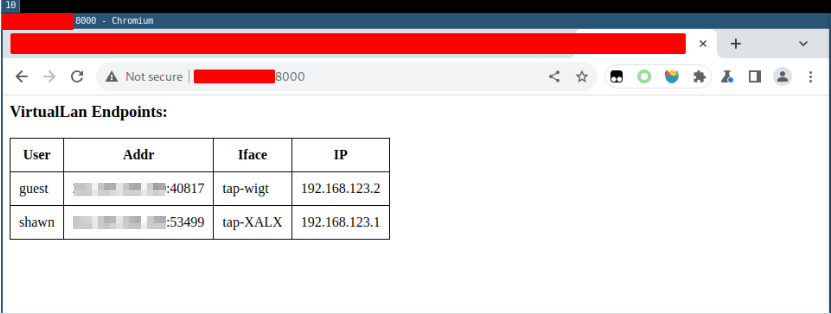
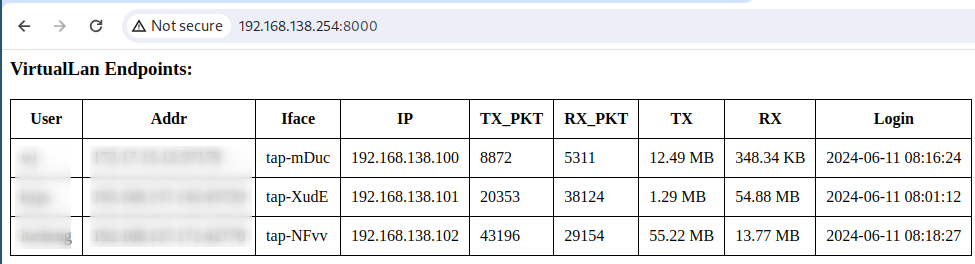
Update README

diff --git a/README.md b/README.md
@@ -39,7 +39,7 @@ go generate will generate an random aes key
 
 **Server**
 ```
-➜  virtuallan git:(master) ✗ ./virtuallan server -h
+➜  ~ virtuallan server -h
 NAME:
    virtuallan server - run virtuallan server
 
@@ -55,9 +55,22 @@ config dir files:
 * config.yaml: server config file
 * users: user database csv format \<username>,\<user passwd base64 encode>
 
+config.yaml
+
+```
+port: 6123                                     # UDP server port
+ip: 192.168.123.254/24                         # Server local ip address
+dhcp-range: 192.168.123.100-192.168.123.200    # DHCP ip pool
+bridge: br0                                    # Server local bridge name
+log-level: info                                # Log level
+web:
+  enable: true                                 # Monitor server enable, default false
+  port: 8000                                   # Web server port
+```
+
 **Endpoint**
 ```
-➜  virtuallan git:(master) ✗ ./virtuallan client -h
+➜  ~ virtuallan client -h
 NAME:
    virtuallan client - connect to virtuallan server
 
@@ -66,7 +79,6 @@ USAGE:
 
 OPTIONS:
    --target value, -t value  socket virtuallan server listened on
-   --addr value, -a value    ipv4 address of current endpoint
    --user value, -u value    username of virtuallan endpoint
    --passwd value, -p value  password of virtuallan endpoint user
    --help, -h                show help
@@ -101,41 +113,18 @@ If enable web, it will start a http server on port 8000. Check the endpoints in 
 
 Links of virtuallan server
 ```
-root@i-5tb1rpqn:~# ip a show br0
-3: br0: <BROADCAST,MULTICAST,UP,LOWER_UP> mtu 1500 qdisc noqueue state UP group default qlen 1000
-    link/ether 52:85:8d:51:1f:e0 brd ff:ff:ff:ff:ff:ff
-    inet 192.168.123.254/24 brd 192.168.123.255 scope global br0
+Alpine-GW:~# ip a show br-vl
+120: br-vl: <BROADCAST,MULTICAST,UP,LOWER_UP> mtu 1500 qdisc noqueue state UP group default qlen 1000
+    link/ether 9a:6d:ae:1d:5b:47 brd ff:ff:ff:ff:ff:ff
+    inet 192.168.138.254/24 brd 192.168.138.255 scope global br-vl
        valid_lft forever preferred_lft forever
-    inet6 fe80::b46f:44ff:fef6:f8a9/64 scope link 
+    inet6 fe80::7c46:faff:feb5:e372/64 scope link 
        valid_lft forever preferred_lft forever
-root@i-5tb1rpqn:~# ip l show master br0
-4: tap-XALX: <BROADCAST,MULTICAST,UP,LOWER_UP> mtu 1500 qdisc fq_codel master br0 state UNKNOWN mode DEFAULT group default qlen 1000
-    link/ether 56:f7:9f:01:b9:c6 brd ff:ff:ff:ff:ff:ff
-5: tap-wigt: <BROADCAST,MULTICAST,UP,LOWER_UP> mtu 1500 qdisc fq_codel master br0 state UNKNOWN mode DEFAULT group default qlen 1000
-    link/ether 62:01:07:45:89:56 brd ff:ff:ff:ff:ff:ff
-root@i-5tb1rpqn:~# ping 192.168.123.1 -c 1
-PING 192.168.123.1 (192.168.123.1) 56(84) bytes of data.
-64 bytes from 192.168.123.1: icmp_seq=1 ttl=64 time=39.5 ms
-
---- 192.168.123.1 ping statistics ---
-1 packets transmitted, 1 received, 0% packet loss, time 0ms
-rtt min/avg/max/mdev = 39.514/39.514/39.514/0.000 ms
-root@i-5tb1rpqn:~# ping 192.168.123.2 -c 1
-PING 192.168.123.2 (192.168.123.2) 56(84) bytes of data.
-64 bytes from 192.168.123.2: icmp_seq=1 ttl=64 time=32.7 ms
-
---- 192.168.123.2 ping statistics ---
-1 packets transmitted, 1 received, 0% packet loss, time 0ms
-rtt min/avg/max/mdev = 32.719/32.719/32.719/0.000 ms
-```
-
-server log
-```
-root@i-5tb1rpqn:~/tmp# ./main server -d ./config/
-INFO[0000] run web server on port 8000                  
-WARN[0108] wrong passwd for user shawn                  
-INFO[0129] client <remote address of endpoint>:53499 login to shawn succeed 
-INFO[0129] client <remote address of endpoint>:53499 auth succeed    
-INFO[0299] client <remote address of endpoint>:40817 login to guest succeed 
-INFO[0299] client <remote address of endpoint>:40817 auth succeed
+Alpine-GW:~# ip l show master br-vl
+122: tap-XudE: <BROADCAST,MULTICAST,UP,LOWER_UP> mtu 1500 qdisc pfifo_fast master br-vl state UNKNOWN mode DEFAULT group default qlen 1000
+    link/ether 9a:6d:ae:1d:5b:47 brd ff:ff:ff:ff:ff:ff
+123: tap-mDuc: <BROADCAST,MULTICAST,UP,LOWER_UP> mtu 1500 qdisc pfifo_fast master br-vl state UNKNOWN mode DEFAULT group default qlen 1000
+    link/ether 9e:76:5a:46:3e:37 brd ff:ff:ff:ff:ff:ff
+124: tap-NFvv: <BROADCAST,MULTICAST,UP,LOWER_UP> mtu 1500 qdisc pfifo_fast master br-vl state UNKNOWN mode DEFAULT group default qlen 1000
+    link/ether 5a:c1:3f:2c:2e:e8 brd ff:ff:ff:ff:ff:ff
 ```
